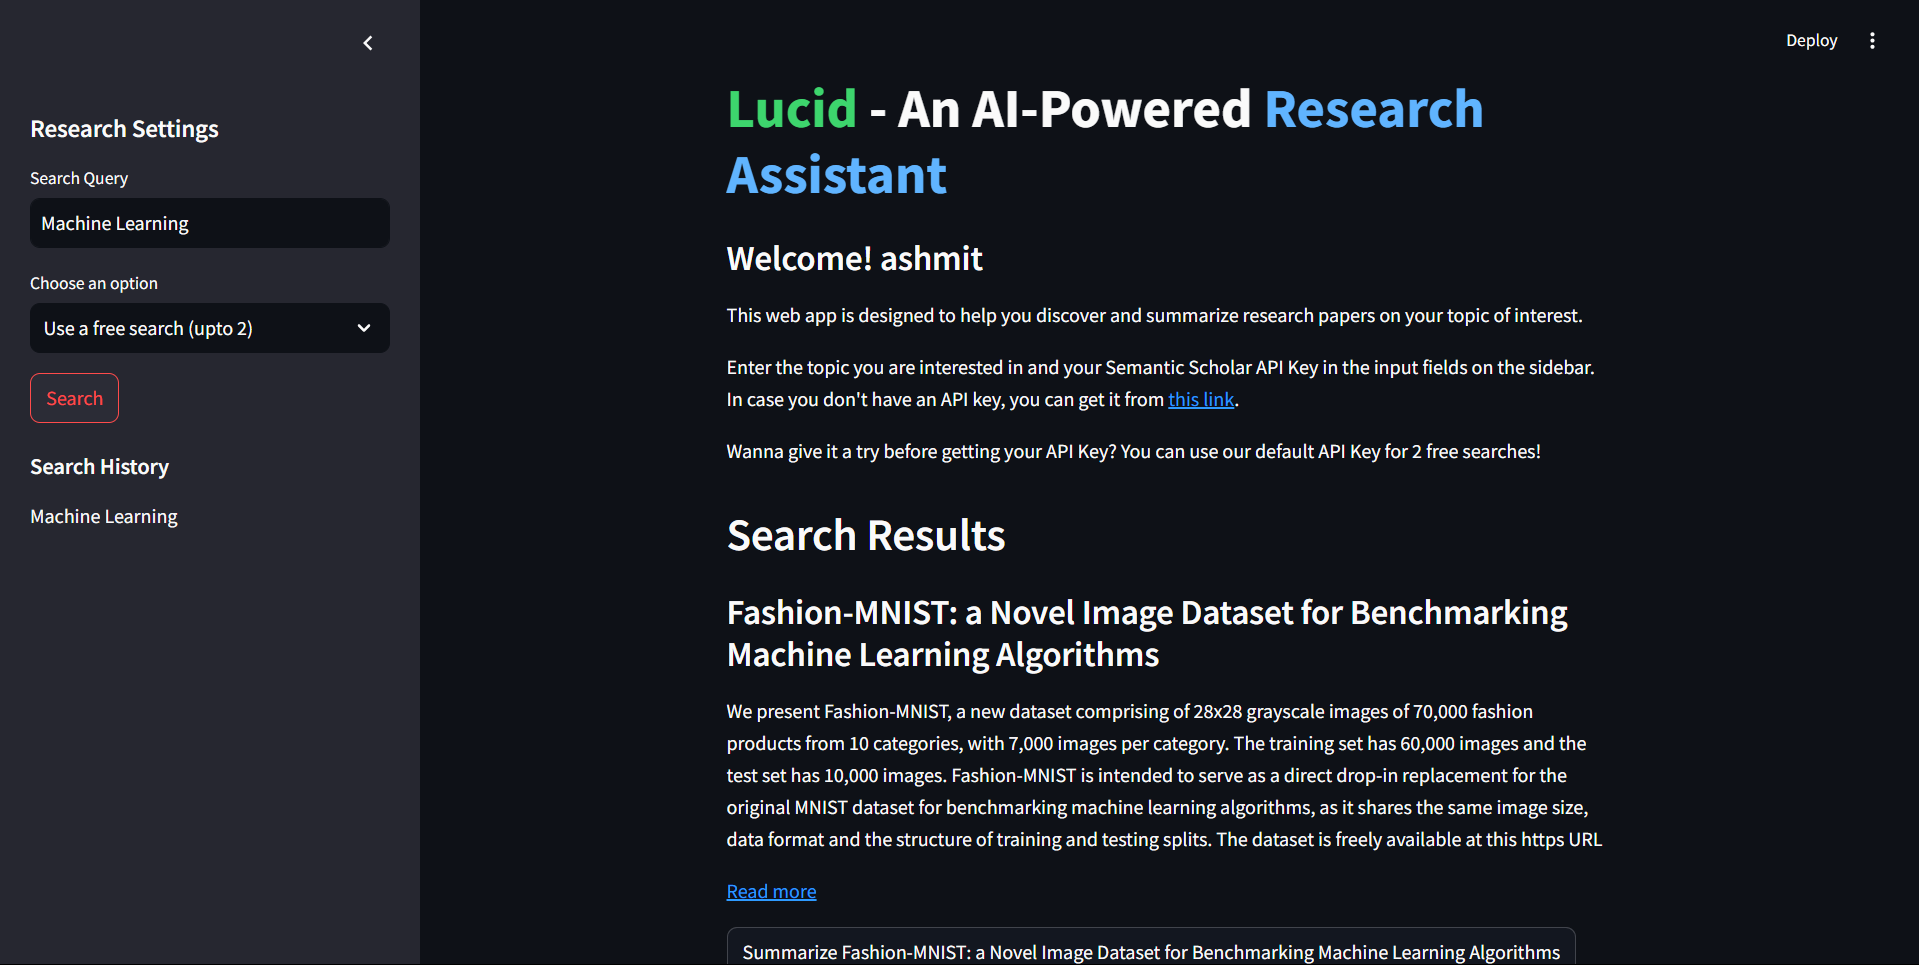
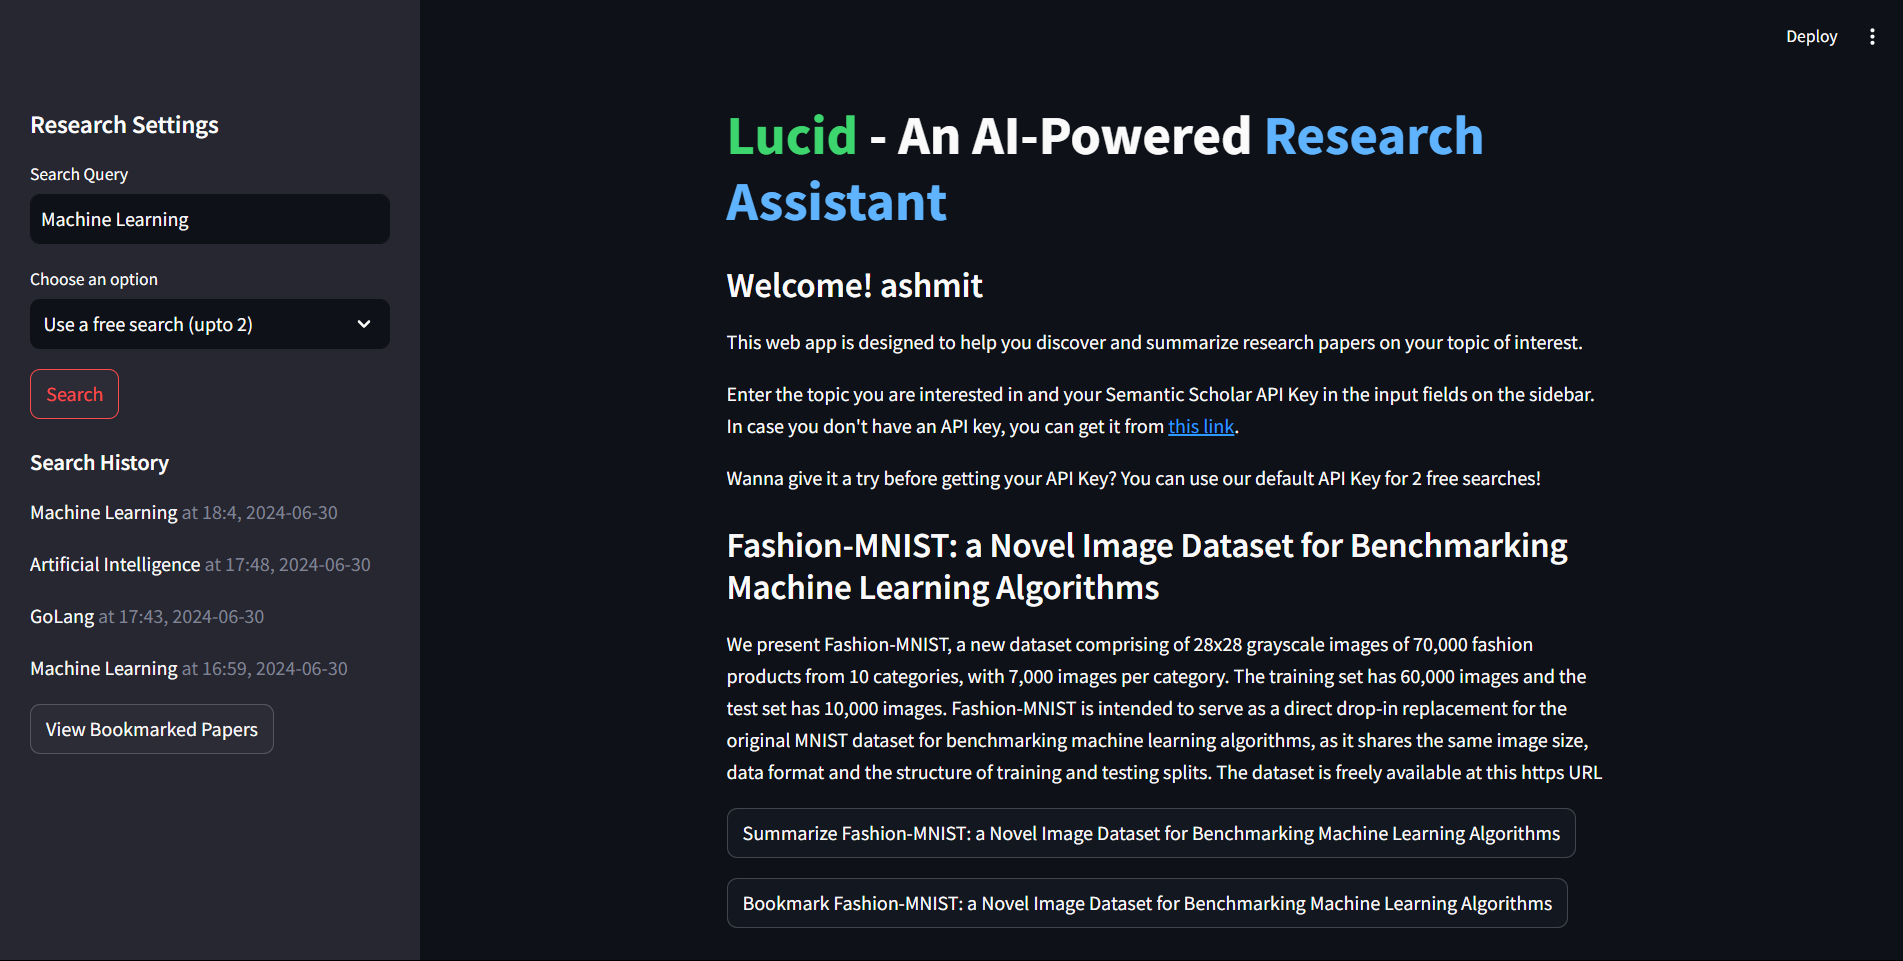
Persistent search history, bookmark storage

diff --git a/app.py b/app.py
@@ -4,7 +4,7 @@ import requests
 from transformers import pipeline, TFAutoModelForSeq2SeqLM, AutoTokenizer
 from login import login_portal
 from dotenv import load_dotenv
-from mongo_auth import store_api, get_bookmarked_papers, bookmark_paper
+from mongo_auth import store_api, get_bookmarked_papers, bookmark_paper, add_search_history, get_search_history
 import os
 import time
 
@@ -47,6 +47,8 @@ def display_main_app():
     model = TFAutoModelForSeq2SeqLM.from_pretrained(model_name)
     summarizer = pipeline("summarization", model=model, tokenizer=tokenizer)
 
+    st.set_page_config(page_title='Lucid - AI Research Assistant')
+
     st.title(":green[Lucid] - An AI-Powered :blue[Research Assistant]")
     st.write(f"### Welcome! {st.session_state.username}")
     st.write("This web app is designed to help you discover and summarize research papers on your topic of interest.")
@@ -81,9 +83,7 @@ def display_main_app():
     def search():
         if api_key and search_query:
             # Update search history
-            st.session_state.search_history.append(search_query)
-            if len(st.session_state.search_history) > 5:
-                st.session_state.search_history.pop(0)
+            add_search_history(st.session_state.username, search_query)
 
             papers = search_papers(search_query, api_key)
             if papers:
@@ -161,8 +161,8 @@ def display_main_app():
 
     # Display Search history
     st.sidebar.subheader("Search History")
-    for past_query in st.session_state.search_history[::-1]:
-        st.sidebar.write(past_query)
+    for past_query in get_search_history(st.session_state.username)[::-1]:
+        st.sidebar.write(f"{past_query['query']} :grey[at {past_query['timestamp'].time().hour}:{past_query['timestamp'].time().minute}, {past_query['timestamp'].date()}]")
     
     # Display bookmarked papers
     if st.sidebar.button("View Bookmarked Papers"):

diff --git a/mongo_auth.py b/mongo_auth.py
@@ -4,6 +4,7 @@ from dotenv import load_dotenv
 import os
 import bcrypt
 import logging
+import datetime
 
 logging.basicConfig(level=logging.DEBUG)
 
@@ -67,3 +68,15 @@ def get_bookmarked_papers(username):
     collection = get_user_collection()
     user = collection.find_one({"username": username}, {"bookmarked_papers": 1, "_id": 0})
     return user.get("bookmarked_papers", []) if user else []
+
+def add_search_history(username, query):
+    collection = get_user_collection()
+    collection.update_one(
+        {"username": username},
+        {"$push": {"search_history": {"query": query, "timestamp": datetime.datetime.utcnow()}}}
+    )
+
+def get_search_history(username):
+    collection = get_user_collection()
+    user = collection.find_one({"username": username}, {"search_history": 1, "_id": 0})
+    return user.get("search_history", []) if user else []

diff --git a/login.py b/login.py
@@ -3,8 +3,9 @@ from mongo_auth import register_user, authenticate_user
 import time
 
 def login_portal():
+    st.set_page_config(page_title='Lucid - AI Research Assistant')
 
-    st.title('AI Powered Research Assistant')
+    st.title(':green[Lucid] - An AI-Powered :blue[Research Assistant]')
 
     # Sidebar options
     option = st.sidebar.selectbox('Choose Option', ('Login', 'Signup'))
